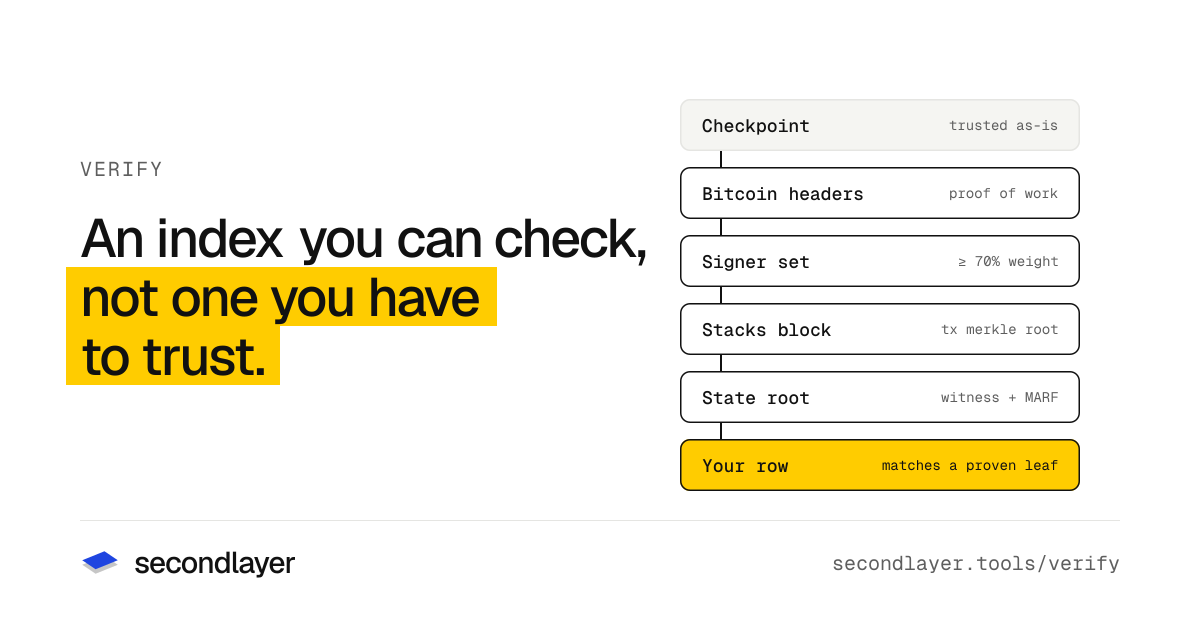
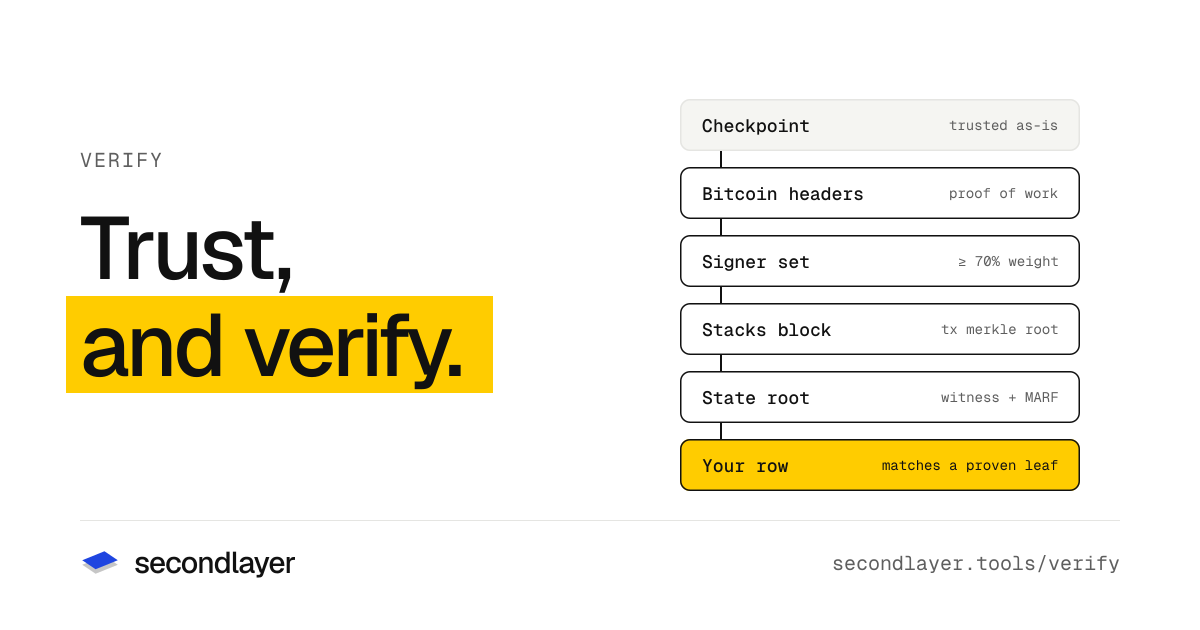
fix(web): Trust, and verify. replaces the check-not-trust line on home, docs, OG and the verify README

Changed region(s): [[0.0308, 0.3317, 0.555, 0.6333], [0.0617, 0.2413, 0.1542, 0.2714]]

diff --git a/apps/web/src/app/(www)/page.tsx b/apps/web/src/app/(www)/page.tsx
@@ -255,7 +255,7 @@ export function HomeView() {
 				<div className="shell">
 					<div className="sec-head">
 						<Eyebrow noun="Verify" />
-						<h2>An index you can check, not one you have to trust.</h2>
+						<h2>Trust, and verify.</h2>
 						<p className="lede">
 							Each block's state proves back through the signer set to a Bitcoin
 							header. You run the check on your machine, and it never asks us

diff --git a/apps/web/scripts/generate-og.tsx b/apps/web/scripts/generate-og.tsx
@@ -1208,9 +1208,9 @@ const CARDS: CardSpec[] = [
 	{
 		file: "verify.png",
 		eyebrow: "VERIFY",
-		line1: "An index you can check,",
-		line2: "not one you have|to trust.",
-		size: 54,
+		line1: "Trust,",
+		line2: "and verify.",
+		size: 88,
 		path: `${SITE}/verify`,
 		artifact: <ArtVerify />,
 	},

diff --git a/packages/verify/README.md b/packages/verify/README.md
@@ -1,6 +1,6 @@
 # @secondlayer/verify
 
-Check a Stacks block yourself instead of trusting the API or node that served it. An index you can check, not one you have to trust.
+Check a Stacks block yourself instead of trusting the API or node that served it. Trust, and verify.
 
 `verifyBlock` walks one chain of links, from a checkpoint shipped in this package to the block's state:
 
